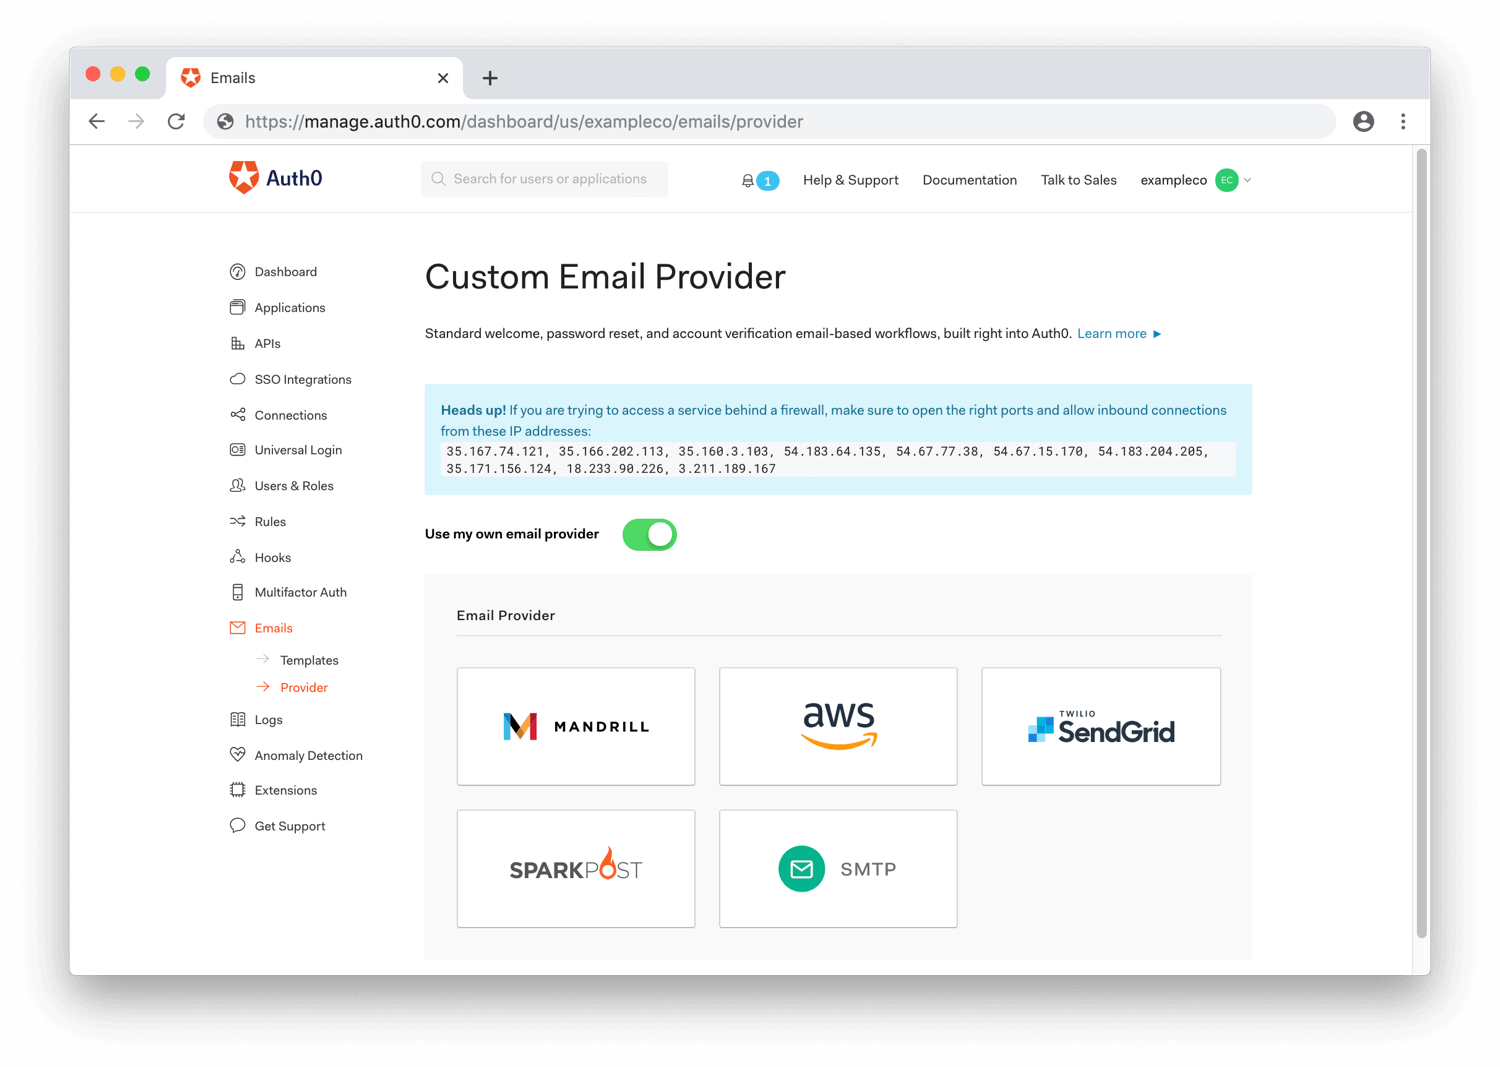
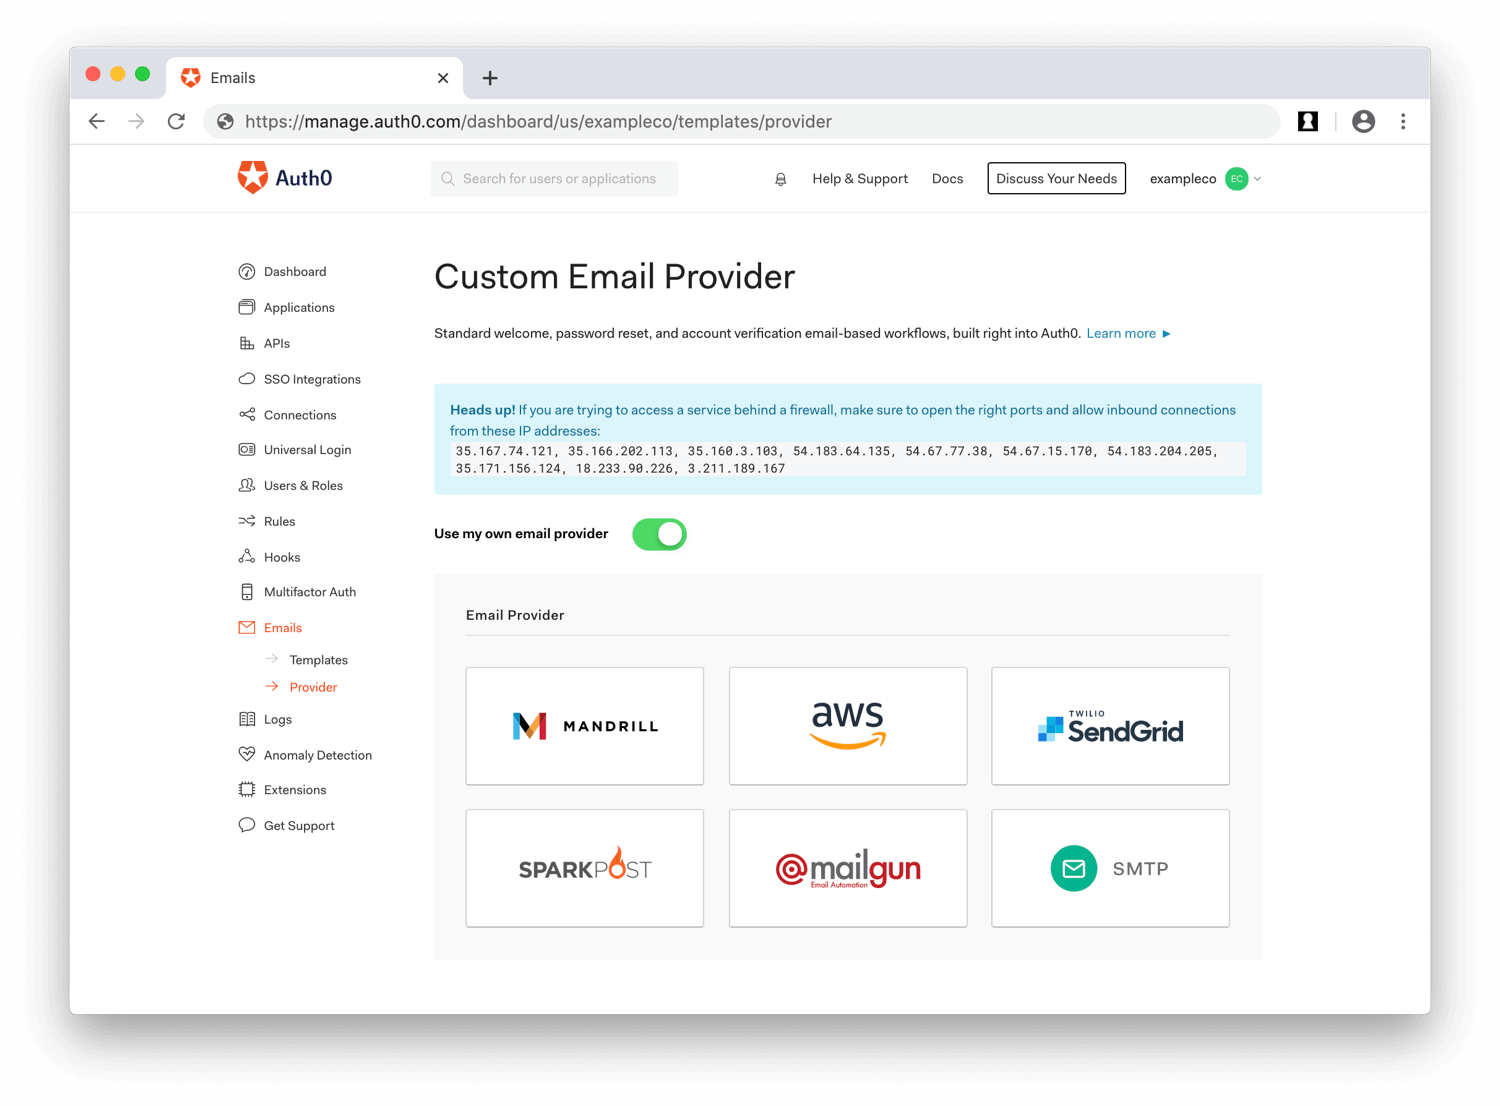
Add Mailgun email provider; edit and update all other providers and screenshots.

diff --git a/articles/email/providers.md b/articles/email/providers.md
@@ -1,15 +1,21 @@
 ---
-description: How to configure your own SMTP email provider
+title: Use Your Own SMTP Email Provider
+description: Learn how to configure your own SMTP email provider, so you can more completely manage, monitor, and troubleshoot your email communications.
 toc: true
 topics:
   - email
   - smtp
+  - email-providers
 contentType: how-to
 useCase: customize-emails
 ---
 # Use Your Own SMTP Email Provider
 
-Auth0 allows you to configure your own SMTP email provider. Auth0's built-in email infrastructure should be used for testing level emails only. By using your own provider you can more completely manage, monitor and troubleshoot your email communications.
+Auth0 allows you to configure your own SMTP email provider so you can more completely manage, monitor, and troubleshoot your email communications.
+
+::: note
+Auth0's built-in email infrastructure should be used for testing-level emails only.
+:::
 
 Auth0 currently supports the following providers:
 
@@ -17,190 +23,184 @@ Auth0 currently supports the following providers:
 * [Mandrill](#configure-mandrill)
 * [SendGrid](#configure-sendgrid)
 * [SparkPost](#configure-sparkpost)
+* [Mailgun](#configure-mailgun)
 * [Other SMTP](#configure-a-custom-smtp-server) (e.g., Gmail, Yahoo)
 
-You can only configure one email provider (Amazon SES, Sendgrid, and so on.) which will be used for all emails.
+You can only configure one email provider, which will be used for all emails.
 
 ## Whitelist IP addresses
 
-To make sure that emails can be sent from Auth0 to your SMTP, you must open the right ports and allow inbound connections from specific IP addresses.
-
-To get the list of IPs, go to [Dashboard > Emails > Provider](${manage_url}/#/emails/provider).
+To ensure that emails can be sent from Auth0 to your SMTP, you must open the right ports and allow inbound connections from specific IP addresses. To get the list of IPs, navigate to [Dashboard > Emails > Provider](${manage_url}/#/emails/provider).
 
 ## Configure Amazon SES
 
-There are several steps to follow to configure Amazon SES for sending email. If you want to use the SES API, please follow this guide.
+To use the Amazon SES API to send emails, you must complete several configuration steps. First, though, you need to decide which credentials you want to use:
 
-You can use two types of credentials
+* API Credentials
+* SMTP Credentials (the secret is usually 44 characters long)
 
-1. API Credentials
-2. SMTP Credentials (the secret is usually 44 characters long)
-
-For more information about SES credentials, visit [Using Credentials With Amazon SES](http://docs.aws.amazon.com/ses/latest/DeveloperGuide/using-credentials.html).
+For more info about SES credentials, see Amazon's [Using Credentials With Amazon SES](http://docs.aws.amazon.com/ses/latest/DeveloperGuide/using-credentials.html).
 
 ### Use API credentials
 
-1. Sign up for an [Amazon AWS](http://aws.amazon.com/ses/) account, or login.
+1. Sign up for an [Amazon AWS](http://aws.amazon.com/ses/) account, or log in.
+
 2. [Verify your domain](http://docs.aws.amazon.com/ses/latest/DeveloperGuide/verify-domains.html).
 
-    ![](/media/articles/email/providers/ses-verify.png)
 3. [Verify email addresses](http://docs.aws.amazon.com/ses/latest/DeveloperGuide/verify-email-addresses.html)    
 
 4. [Request production access](https://docs.aws.amazon.com/ses/latest/DeveloperGuide/request-production-access.html?icmpid=docs_ses_console).
-5. [Get Your AWS Access Keys](http://docs.aws.amazon.com/ses/latest/DeveloperGuide/get-aws-keys.html). Copy these keys. You will need to enter these values into Auth0 (see below).
 
-    ![](/media/articles/email/providers/aws-keys.png)
+5. [Get your AWS access keys](http://docs.aws.amazon.com/ses/latest/DeveloperGuide/get-aws-keys.html). Copy these keys; you will need to enter these values into Auth0.
 
-6. [Attach a policy with the right permissions](http://docs.aws.amazon.com/IAM/latest/UserGuide/access_policies_manage.html). Attach a policy with the `ses:SendRawEmail` and `ses:SendEmail` permissions, as in this example:
+6. [Attach a policy with the proper permissions](http://docs.aws.amazon.com/IAM/latest/UserGuide/access_policies_manage.html). Attach a policy with the `ses:SendRawEmail` and `ses:SendEmail` permissions, as in this example:
 
-    ![](/media/articles/email/providers/aws-policy.png)
+    ![Attach AWS Policy](/media/articles/email/providers/aws-policy.png)
 
-7. Go to the [Custom Email Provider](${manage_url}/#/emails/provider) page of the Auth0 dashboard. Click **Use my own Email Provider** and click the **Amazon Web Services** logo.
-
-8. Enter your AWS `Access Key Id`, `Secret Access Key` and `Region` in the appropriate fields:
-
-    ![](/media/articles/email/providers/enter-keys.png)
-
-9. Click **Save**.
-
-Now you can send a test email using the **SEND TEST EMAIL** button on the [Custom Email Provider](${manage_url}/#/emails/provider) page of the Auth0 dashboard. If you don't receive an email after a few minutes, please check your [dashboard logs](${manage_url}/#/logs) for any failures.
-
-The [Amazon SES console](https://console.aws.amazon.com/ses) will now display all emails which have been sent to your users.
-
-### Use SMTP credentials
-
-1. Sign up for an [Amazon AWS](http://aws.amazon.com/ses/) account, or login.
-2. [Verify your domain](http://docs.aws.amazon.com/ses/latest/DeveloperGuide/verify-domains.html).
-
-    ![](/media/articles/email/providers/ses-verify.png)
-
-3. [Request production access](https://docs.aws.amazon.com/ses/latest/DeveloperGuide/request-production-access.html?icmpid=docs_ses_console).
-
-4. [Get Your SMTP Credentials](http://docs.aws.amazon.com/ses/latest/DeveloperGuide/smtp-credentials.html). Copy the security credentials. You will need to enter these values into Auth0.
-
-    ![](/media/articles/email/providers/ses-smtp.png)
-
-5. Go to the [Custom Email Provider](${manage_url}/#/emails/provider) page of the Auth0 dashboard. Click **Use my own Email Provider** and click the **SMTP** logo.
-
-6. Enter your SMTP server `Host`, `Port`, `Username` and `Password` in the appropriate fields. You can use `email-smtp.us-east-1.amazonaws.com` (using the appropriate region instead of `us-east-1`) for `Host` and `587` for `Port`.
-
-    ![](/media/articles/email/providers/enter-smtp-data.png)
-
-7. Click **Save**.
-
-Now you can send a test email using the **SEND TEST EMAIL** button on the [Custom Email Provider](${manage_url}/#/emails/provider) page of the Auth0 dashboard. If you don't receive an email after a few minutes, please check your [dashboard logs](${manage_url}/#/logs) for any failures.
-
-The [Amazon SES console](https://console.aws.amazon.com/ses) will now display all emails which have been sent to your users.
-
-## Configure Mandrill
-
-1. Sign up for a [Mandrill](https://www.mandrill.com/signup/) account, or login. Go to the [Settings page](https://mandrillapp.com/settings) and click **Add API key**. Save this key value.
-
-    ![](/media/articles/email/providers/mandrill-keygen.png)
-
-2. Go to the [Custom Email Provider](${manage_url}/#/emails/provider) page of the Auth0 dashboard. Click **Use my own Email Provider** and click the **Mandrill** logo.
-
-3. Enter your previously obtained Mandrill `API Key`:
-
-    ![](/media/articles/email/providers/mandrill-key.png)
-
-Now you can send a test email using the **SEND TEST EMAIL** button on the [Custom Email Provider](${manage_url}/#/emails/provider) page of the Auth0 dashboard. If you don't receive an email after a few minutes, please check your [dashboard logs](${manage_url}/#/logs) for any failures.
-
-The [Outbound Activity](https://mandrillapp.com/activity) page in Mandrill will now display all emails which have been sent to your users, including the subject and the delivery status of each message.
-
-![](/media/articles/email/providers/email-mandrill-monitoring.png)
-
-## Configure SendGrid
-
-1. Sign up for a [SendGrid](https://sendgrid.com) account, or login. (If you have a Microsoft Azure subscription you can get a free account in the Azure Marketplace).
-
-2. Go to **Settings > API Keys** and click **Create API Key**.
-3. Provide a name for your key and enable **Full Access** for **Mail Send** permissions. Click **Save**.
-
-    ![](/media/articles/email/providers/sendgrid-permissions.png)
-
-4. Copy the API key provided.
-
-    ![](/media/articles/email/providers/sendgrid-key.png)
-
-5. Go to the [Custom Email Provider](${manage_url}/#/emails/provider) page of the Auth0 dashboard. Click **Use my own Email Provider** and click the **SendGrid** logo.
-
-6. Provide a **From** email and enter your previously obtained **SendGrid API Key**:
-
-    ![](/media/articles/email/providers/sendgrid-dashboard.png)
-
-
-Now you can send a test email using the **SEND TEST EMAIL** button on the [Custom Email Provider](${manage_url}/#/emails/provider) page of the Auth0 dashboard. If you have configured everything correctly, you will receive a confirmation email:
-
-![](/media/articles/email/providers/sendgrid-test.png)
-
-::: note
-If you do not receive an email after a few minutes, please check your [dashboard logs](${manage_url}/#/logs) for any failures.
-:::
-
-The [Email Activity](https://sendgrid.com/logs/index) page in SendGrid will now display all emails which have been sent to your users and the delivery status of each message.
-
-![](/media/articles/email/providers/email-sendgrid-monitoring.png)
-
-## Configure SparkPost
-
-1. Sign up for a [SparkPost](https://www.sparkpost.com/) account or log in. Go to the [Account API Keys page](https://app.sparkpost.com/account/credentials) and click **New API key**. Save this key value. The key must have `Transmissions: Read/Write` access.
-
-    ![](/media/articles/email/providers/sparkpost-api-key-creation.png)
-
-2. Navigate to the [Custom Email Provider](${manage_url}/#/emails/provider) page of the Auth0 dashboard. Enable the **Use my own Email Provider** toggle, and click the **SparkPost** logo.
+7. Navigate to Auth0 [Custom Email Providers](${manage_url}/#/emails/provider). Activate the **Use my own email provider** toggle, and click the **Amazon Web Services** logo.
 
     ![Select Email Provider](/media/articles/dashboard/emails/providers/emails-providers-list.png)
 
-3. Enter your previously obtained SparkPost **API Key**, select your **Region**, and then click **Save**.
+8. Provide a **From** email address, enter your AWS **Access Key Id** and **Secret Access Key**, select your **Region**, and click **Save**:
 
-    ![Configure Email Provider](/media/articles/dashboard/emails/providers/emails-providers-settings-sparkpost.png)
+    ![Enter AWS API Email Provider Values](/media/articles/dashboard/emails/providers/emails-providers-settings-aws.png)
+
+You can now send a test email using the **Send Test Email** button. If you have configured everything correctly, you will receive a confirmation email. If you do not receive an email after a few minutes, please check your [Auth0 logs](${manage_url}/#/logs) for any failures.
+
+The [Amazon SES console](https://console.aws.amazon.com/ses) will now display delivery insights for all emails that have been sent to your users.
+
+### Use SMTP credentials
+
+1. Sign up for an [Amazon AWS](http://aws.amazon.com/ses/) account, or log in.
+
+2. [Verify your domain](http://docs.aws.amazon.com/ses/latest/DeveloperGuide/verify-domains.html).
+
+3. [Request production access](https://docs.aws.amazon.com/ses/latest/DeveloperGuide/request-production-access.html?icmpid=docs_ses_console).
+
+4. [Get your SMTP credentials](http://docs.aws.amazon.com/ses/latest/DeveloperGuide/smtp-credentials.html). Copy the security credentials; you will need to enter these values into Auth0.
+
+5. Navigate to Auth0 [Custom Email Providers](${manage_url}/#/emails/provider). Activate the **Use my own email provider** toggle, and click the **SMTP** logo.
+
+    ![Select Email Provider](/media/articles/dashboard/emails/providers/emails-providers-list.png)
+
+6. Provide a **From** email address, then enter your SMTP server **Host**, **Port**, **Username**, and **Password**, and click **Save**. You can use `email-smtp.us-east-1.amazonaws.com` (using the appropriate region rather than `us-east-1`) for **Host** and `587` for **Port**. 
+
+    ![Enter AWS SMTP Email Provider Values](/media/articles/dashboard/emails/providers/emails-providers-settings-smtp.png)
+
+You can now send a test email using the **Send Test Email** button. If you have configured everything correctly, you will receive a confirmation email. If you do not receive an email after a few minutes, please check your [Auth0 logs](${manage_url}/#/logs) for any failures.
+
+The [Amazon SES console](https://console.aws.amazon.com/ses) will now display delivery insights for all emails that have been sent to your users.
+
+## Configure Mandrill
+
+1. Sign up for a [Mandrill](https://www.mandrill.com/signup/) account, or log in.
+
+2. Navigate to Mandrill [Settings](https://mandrillapp.com/settings), and click **Add API key**. Copy this key value.
+
+3. Navigate to Auth0 [Custom Email Providers](${manage_url}/#/emails/provider). Activate the **Use my own email provider** toggle, and click the **Mandrill** logo.
+
+    ![Select Email Provider](/media/articles/dashboard/emails/providers/emails-providers-list.png)
+
+4. Provide a *From** email address, enter the Mandrill **API Key** you previously copied, and click **Save**:
+
+    ![Enter Mandrill Email Provider Values](/media/articles/dashboard/emails/providers/emails-providers-settings-mandrill.png)
+
+You can now send a test email using the **Send Test Email** button. If you have configured everything correctly, you will receive a confirmation email. If you do not receive an email after a few minutes, please check your [Auth0 logs](${manage_url}/#/logs) for any failures.
+
+The Mandrill [Outbound Activity](https://mandrillapp.com/activity) page will now display delivery insights for all emails that have been sent to your users.
+
+## Configure SendGrid
+
+1. Sign up for a [SendGrid](https://sendgrid.com) account, or log in. (If you have a Microsoft Azure subscription, you can get a free account in the Azure Marketplace.)
+
+2. Navigate to SendGrid **Settings > API Keys**, and click **Create API Key**. Provide a name for your key, enable **Full Access** for **Mail Send** permissions, and click **Save**. Copy this key value.
+
+3. Navigate to Auth0 [Custom Email Providers](${manage_url}/#/emails/provider). Activate the **Use my own email provider** toggle, and click the **SendGrid** logo.
+
+    ![Select Email Provider](/media/articles/dashboard/emails/providers/emails-providers-list.png)
+
+4. Provide a **From** email address, enter the SendGrid **API Key** you previously copied, and click **Save**:
+
+    ![Enter SendGrid Email Provider Values](/media/articles/dashboard/emails/providers/emails-providers-settings-sendgrid.png)
+
+You can now send a test email using the **Send Test Email** button. If you have configured everything correctly, you will receive a confirmation email. If you do not receive an email after a few minutes, please check your [Auth0 logs](${manage_url}/#/logs) for any failures.
+
+The SendGrid [Email Activity](https://sendgrid.com/logs/index) page will now display delivery insights for all emails that have been sent to your users.
+
+## Configure SparkPost
+
+1. Sign up for a [SparkPost](https://www.sparkpost.com/) account, or log in. 
+
+2. Navigate to SparkPost [Sending Domains](https://app.sparkpost.com/account/sending-domains), and add your custom domain. SparkPost allows sending emails from only verified domains.
+
+3. Navigate to SparkPost [Account API Keys](https://app.sparkpost.com/account/credentials), and click **New API key**. Save this key value and ensure it has `Transmissions: Read/Write` access. Copy this key value.
+
+4. Navigate to Auth0 [Custom Email Providers](${manage_url}/#/emails/provider). Activate the **Use my own email provider** toggle, and click the **SparkPost** logo.
+
+    ![Select Email Provider](/media/articles/dashboard/emails/providers/emails-providers-list.png)
+
+5. Provide a **From** email address, enter the SparkPost **API Key** you previously copied, select your **Region**, and click **Save**:
+
+    ![Enter SparkPost Email Provider Values](/media/articles/dashboard/emails/providers/emails-providers-settings-sparkpost.png)
 
 ::: warning
-If your account was already configured for the US region and you are changing to the EU region, you must replace the **API Key** in Auth0 with a Sparkpost EU API Key.
+If you are changing to the EU region in an account that was already configured for the US region, you must replace the **API Key** in Auth0 with a Sparkpost EU API Key.
 :::
 
-You can also send a test email using the **Send Test Email** button.
+You can now send a test email using the **Send Test Email** button. If you have configured everything correctly, you will receive a confirmation email. If you do not receive an email after a few minutes, please check your [Auth0 logs](${manage_url}/#/logs) for any failures.
 
 ::: note
-SparkPost only allows sending emails from verified domains. To verify a custom domain, go to the [Sending Domains page](https://app.sparkpost.com/account/sending-domains) and add your custom domain.
-
-Alternatively, you can send test emails from the `sparkpostbox.com` domain, but this is limited to only five test emails. For details, see the [relevant SparkPost docs](https://developers.sparkpost.com/api/transmissions.html#header-the-sandbox-domain).
+If you haven't registered a custom domain with SparkPost, you can send a maximum of five test emails from the `sparkpostbox.com` domain. For more info, see SparkPost's [Transmissions: The Sandox Domain](https://developers.sparkpost.com/api/transmissions.html#header-the-sandbox-domain).
 :::
 
-If you don't receive an email after a few minutes, please check your [dashboard logs](${manage_url}/#/logs) for any failures.
+The SparkPost [Message Events](https://app.sparkpost.com/reports/message-events) page will now display delivery insights for all emails that have been sent to your users.
 
-The [Message Events](https://app.sparkpost.com/reports/message-events) page in SparkPost will now display all emails which have been sent to your users, including the delivery status of each message.
+## Configure Mailgun
 
-![](/media/articles/email/providers/sparkpost-message-events.png)
+1. Sign up for a [Mailgun](https://mailgun.com) account, or log in.
+
+2. Navigate to Mailgun **Sending > Domains**, and add your custom domain. Mailgun allows sending emails from only verified domains.
+
+3. Navigate to Mailgun **Settings > API Keys**. Your API key was created when you signed up for your account; copy it from **Private API Key**.
+
+4. Navigate to Auth0 [Custom Email Providers](${manage_url}/#/emails/provider). Activate the **Use my own email provider** toggle, and click the **Mailgun** logo.
+
+    ![Select Email Provider](/media/articles/dashboard/emails/providers/emails-providers-list.png)
+
+5. Provide a **From** email address, enter the **Domain** you previously added to Mailgun, enter the Mailgun **API Key** you previously copied, select your **Region**, and click **Save**:
+
+    ![Enter Mailgun Email Provider Values](/media/articles/dashboard/emails/providers/emails-providers-settings-mailgun.png)
+
+You can now send a test email using the **Send Test Email** button. If you have configured everything correctly, you will receive a confirmation email. If you do not receive an email after a few minutes, please check your [Auth0 logs](${manage_url}/#/logs) for any failures.
+
+The [Mailgun Dashboard](https://app.mailgun.com/app/dashboard) will now display delivery insights for all emails that have been sent to your users.
 
 ## Configure a custom SMTP server
 
-You can use your own SMTP server to send email. There are three requirements for the SMTP server:
+When using your own SMTP server to send email, the server must:
 
-* It must support LOGIN [authentication](https://en.wikipedia.org/wiki/SMTP_Authentication).
-* It must support [TLS](https://en.wikipedia.org/wiki/STARTTLS) 1.0 or higher.
-* It must use a certificate signed by a public certificate authority (CA).
+* support LOGIN [authentication](https://en.wikipedia.org/wiki/SMTP_Authentication).
+* support [TLS](https://en.wikipedia.org/wiki/STARTTLS) 1.0 or higher.
+* use a certificate signed by a public certificate authority (CA).
 
-To be able to use your own SMTP server:
+If your SMTP server meets these criteria, then:
 
-1. Open the [Custom Email Provider](${manage_url}/#/emails/provider) page of the Auth0 dashboard.
-2. Click on **Use my own Email Provider**.
-3. Click the **SMTP** logo.
-4. Enter your SMTP server `Host`, `Port`, `Username` and `Password` in the appropriate fields:
+1. Navigate to Auth0 [Custom Email Providers](${manage_url}/#/emails/provider). Activate the **Use my own email provider** toggle, and click the **SMTP** logo.
 
-    ![](/media/articles/email/providers/enter-smtp-data.png)
+    ![Select Email Provider](/media/articles/dashboard/emails/providers/emails-providers-list.png)
 
-5. Click **Save**.
+2. Provide a **From** email address, then enter your SMTP server **Host**, **Port**, **Username**, and **Password**, and click **Save**:
+
+    ![Enter Custom SMTP Email Provider Values](/media/articles/dashboard/emails/providers/emails-providers-settings-smtp.png)
 
 ::: note
-Common ports include 25 and 587. Please avoid using port 25 if you can, since many providers have limitations on this port.
+Common ports include 25 and 587. Please avoid using port 25 if you can because many providers have limitations on this port.
 :::
 
-Now you can send a test email using the **SEND TEST EMAIL** button on the [Custom Email Provider](${manage_url}/#/emails/provider) page of the Auth0 dashboard. If you don't receive an email after a few minutes, please check your [dashboard logs](${manage_url}/#/logs) for any failures.
+You can now send a test email using the **Send Test Email** button. If you have configured everything correctly, you will receive a confirmation email. If you do not receive an email after a few minutes, please check your [Auth0 logs](${manage_url}/#/logs) for any failures.
 
 ::: panel Test services
-SMTP makes it easy to setup test services that allow you to test that your setup is working without spamming your users. For more information, see: [Set up a Test SMTP Provider](/email/testing) .
+SMTP makes it easy to set up test services that allow you to test that your setup is working without spamming your users. For more info, see [Set Up a Test SMTP Provider](/email/testing).
 :::
 
 ## Keep reading
